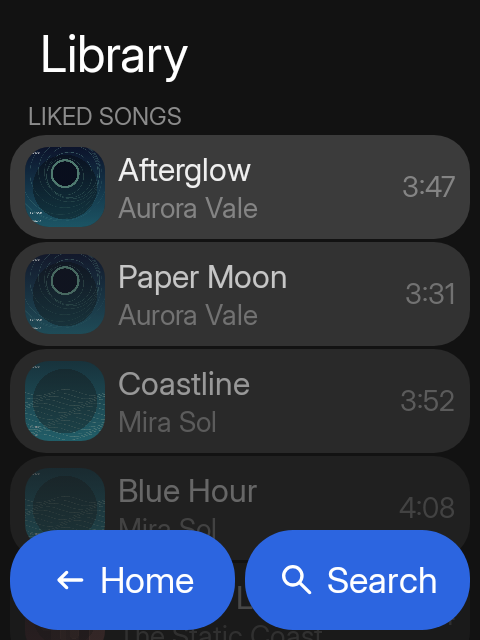
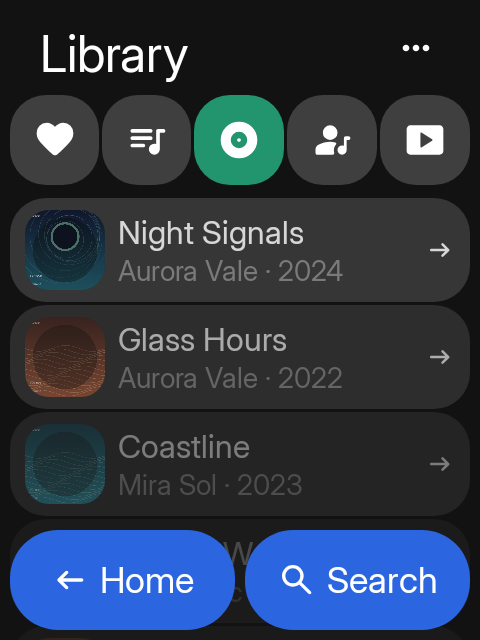
fix(library): scroll the filter row with the list
The category row was a header above the list, so it stayed pinned while the
list scrolled and the list fade restarted at the first album, leaving content
under the action bar too bright. Make it the first list item so it scrolls
away and shares the fade with the rows below it.

Up from the first row now focuses the selected category instead of letting
focus search pick the middle button. The row fade also uses a snapshot of the
list offset: the lazy DSL advances rowIndex before the item content runs, so
reading it inside the lambda faded every row by the wrong index.

diff --git a/app/src/main/java/io/github/manuelrtsch/sidetrack/SpotifyLibraryScreens.kt b/app/src/main/java/io/github/manuelrtsch/sidetrack/SpotifyLibraryScreens.kt
@@ -23,6 +23,11 @@ import androidx.compose.ui.draw.clip
 import androidx.compose.ui.focus.FocusRequester
 import androidx.compose.ui.focus.focusRequester
 import androidx.compose.ui.focus.onFocusChanged
+import androidx.compose.ui.input.key.Key
+import androidx.compose.ui.input.key.KeyEventType
+import androidx.compose.ui.input.key.key
+import androidx.compose.ui.input.key.onPreviewKeyEvent
+import androidx.compose.ui.input.key.type
 import androidx.compose.ui.semantics.Role
 import androidx.compose.ui.semantics.selected
 import androidx.compose.ui.semantics.semantics
@@ -195,69 +200,94 @@ fun LibraryScreen(
             runCatching { filterFocus.getValue(library.filter).requestFocus() }
         }
         LaunchedEffect(filter) { listState.scrollToItem(0) }
-        Column(Modifier.fillMaxSize()) {
-            LibraryFilterRow(filter, onFilter, filterFocus)
-            Spacer(Modifier.height(SidekitTheme.spacing.pageGap))
-            when {
-                items.isEmpty() && library.libraryLoading -> Box(
+        // Up from the first row returns to the keyboard row rather than letting focus search pick
+        // the geometrically nearest button, which is the middle one.
+        val firstRowModifier = Modifier.onPreviewKeyEvent { event ->
+            if (event.type == KeyEventType.KeyDown && event.key == Key.DirectionUp) {
+                filterFocus.getValue(filter).requestFocus()
+                true
+            } else {
+                false
+            }
+        }
+        val loading = items.isEmpty() && library.libraryLoading
+        if (loading || (items.isEmpty() && library.libraryError != null)) {
+            Column(Modifier.fillMaxSize()) {
+                LibraryFilterRow(filter, onFilter, filterFocus)
+                Spacer(Modifier.height(SidekitTheme.spacing.pageGap))
+                Box(
                     Modifier.weight(1f).fillMaxWidth(),
                     contentAlignment = Alignment.Center
                 ) {
-                    SpotifyLoadingScreen(title = "Loading ${filter.label.lowercase()}…", hint = null)
-                }
-
-                items.isEmpty() && library.libraryError != null -> Box(
-                    Modifier.weight(1f).fillMaxWidth(),
-                    contentAlignment = Alignment.Center
-                ) {
-                    SpotifyStatusScreen(
-                        "Couldn't load ${filter.label.lowercase()}",
-                        hint = library.libraryError,
-                        actionLabel = "Try again",
-                        onAction = onRetry
-                    )
-                }
-
-                else -> SidekitList(padding, state = listState, modifier = Modifier.weight(1f)) {
-                    var rowIndex = 0
-                    if (items.isEmpty()) {
-                        val index = rowIndex
-                        item(key = "empty") {
-                            SpotifyStatusScreen(
-                                filter.empty,
-                                Modifier.listFade(listState, index),
-                                hint = "Search to find something to save"
-                            )
-                        }
-                        rowIndex += 1
-                    }
-                    itemsIndexed(
-                        items,
-                        key = { index, item -> "$index:${libraryKey(item)}" },
-                        contentType = { _, item -> libraryKey(item).take(1) }
-                    ) { index, item ->
-                        LibraryRow(
-                            item,
-                            Modifier.listFade(listState, rowIndex + index),
-                            rows,
-                            onTrack,
-                            onPlaylist,
-                            onAlbum,
-                            onArtist,
-                            onShow
+                    if (loading) {
+                        SpotifyLoadingScreen(title = "Loading ${filter.label.lowercase()}…", hint = null)
+                    } else {
+                        SpotifyStatusScreen(
+                            "Couldn't load ${filter.label.lowercase()}",
+                            hint = library.libraryError,
+                            actionLabel = "Try again",
+                            onAction = onRetry
                         )
                     }
-                    rowIndex += items.size
-                    if (library.libraryHasMore) {
-                        val moreIndex = rowIndex
-                        item(key = "more") {
-                            LoadMoreRow(
-                                "Load more ${filter.label.lowercase()}",
-                                library.libraryMorePending,
-                                onLoadMore,
-                                Modifier.listFade(listState, moreIndex)
-                            )
-                        }
+                }
+            }
+        } else {
+            // The filter row is the first list item, not a header above the list: it scrolls away
+            // with the content and shares the list fade with the rows below it.
+            SidekitList(padding, state = listState) {
+                item(key = "filters") {
+                    LibraryFilterRow(
+                        filter,
+                        onFilter,
+                        filterFocus,
+                        Modifier.listFade(listState, 0)
+                            .padding(bottom = SidekitTheme.spacing.pageGap)
+                    )
+                }
+                var rowIndex = 1
+                if (items.isEmpty()) {
+                    val index = rowIndex
+                    item(key = "empty") {
+                        SpotifyStatusScreen(
+                            filter.empty,
+                            Modifier.listFade(listState, index).then(firstRowModifier),
+                            hint = "Search to find something to save"
+                        )
+                    }
+                    rowIndex += 1
+                }
+                // Snapshot the offset before registering the items: the lazy DSL runs each item's
+                // content later, after rowIndex has moved past the page, so reading it inside the
+                // lambda would fade every row by the wrong index.
+                val base = rowIndex
+                itemsIndexed(
+                    items,
+                    key = { index, item -> "$index:${libraryKey(item)}" },
+                    contentType = { _, item -> libraryKey(item).take(1) }
+                ) { index, item ->
+                    var modifier: Modifier = Modifier.listFade(listState, base + index)
+                    if (index == 0) modifier = modifier.then(firstRowModifier)
+                    LibraryRow(
+                        item,
+                        modifier,
+                        rows,
+                        onTrack,
+                        onPlaylist,
+                        onAlbum,
+                        onArtist,
+                        onShow
+                    )
+                }
+                rowIndex += items.size
+                if (library.libraryHasMore) {
+                    val moreIndex = rowIndex
+                    item(key = "more") {
+                        LoadMoreRow(
+                            "Load more ${filter.label.lowercase()}",
+                            library.libraryMorePending,
+                            onLoadMore,
+                            Modifier.listFade(listState, moreIndex)
+                        )
                     }
                 }
             }

diff --git a/app/src/test/java/io/github/manuelrtsch/sidetrack/LibraryFilterRowTest.kt b/app/src/test/java/io/github/manuelrtsch/sidetrack/LibraryFilterRowTest.kt
@@ -1,0 +1,86 @@
+package io.github.manuelrtsch.sidetrack
+
+import androidx.compose.ui.input.key.Key
+import androidx.compose.ui.test.assertIsFocused
+import androidx.compose.ui.test.assertIsNotDisplayed
+import androidx.compose.ui.test.assertIsSelected
+import androidx.compose.ui.test.hasScrollAction
+import androidx.compose.ui.test.isFocused
+import androidx.compose.ui.test.junit4.v2.createComposeRule
+import androidx.compose.ui.test.onNodeWithContentDescription
+import androidx.compose.ui.test.onNodeWithText
+import androidx.compose.ui.test.performKeyInput
+import androidx.compose.ui.test.performScrollToIndex
+import androidx.compose.ui.test.pressKey
+import androidx.compose.ui.test.requestFocus
+import androidx.test.ext.junit.runners.AndroidJUnit4
+import hrln.interactive.sidekit.design.canvas.SidekitCanvas
+import hrln.interactive.sidekit.design.theme.SidekitSpacing
+import hrln.interactive.sidekit.design.theme.SidekitTheme
+import kotlinx.coroutines.runBlocking
+import org.junit.Rule
+import org.junit.Test
+import org.junit.runner.RunWith
+
+/** The category row is part of the list: it scrolls away and Up returns to the selected button. */
+@RunWith(AndroidJUnit4::class)
+class LibraryFilterRowTest {
+    @get:Rule val compose = createComposeRule()
+
+    private fun show(filter: LibraryFilter) {
+        val state = SpotifyUiState(
+            libraryItems = runBlocking { MockSpotifyDataSource.library(filter).items },
+            filter = filter
+        )
+        compose.setContent {
+            SidekitTheme(spacing = SidekitSpacing.Compact) {
+                SidekitCanvas {
+                    LibraryScreen(
+                        state.library,
+                        state.saved,
+                        state.chrome,
+                        onBack = {},
+                        onSearch = {},
+                        onFilter = {},
+                        onTrack = {},
+                        onAddToQueue = {},
+                        onPlaylist = {},
+                        onAlbum = {},
+                        onArtist = {},
+                        onShow = {},
+                        onSaveTrack = {},
+                        onEnsureSavedTrack = {},
+                        onLoadMore = {},
+                        onNowPlaying = {},
+                        onRetry = {},
+                        onDismissNotice = {},
+                        onDismissNowPlaying = {}
+                    )
+                }
+            }
+        }
+        compose.waitForIdle()
+    }
+
+    @Test
+    fun rowScrollsAwayWithTheList() {
+        show(LibraryFilter.Albums)
+        compose.onNodeWithText("Night Signals").requestFocus()
+        compose.waitForIdle()
+        compose.onAllNodes(hasScrollAction())[0].performScrollToIndex(4)
+        compose.waitForIdle()
+        compose.onNodeWithContentDescription("Albums").assertIsNotDisplayed()
+    }
+
+    @Test
+    fun upFromFirstRowReturnsToTheSelectedRow() {
+        show(LibraryFilter.Shows)
+        compose.onNodeWithContentDescription("Shows").assertIsSelected()
+        compose.onNodeWithText("The Long Way Home").requestFocus()
+        compose.waitForIdle()
+        compose.onNodeWithText("The Long Way Home").assertIsFocused()
+        compose.onNode(isFocused()).performKeyInput { pressKey(Key.DirectionUp) }
+        compose.waitForIdle()
+        compose.onNodeWithContentDescription("Shows").assertIsFocused()
+    }
+}
